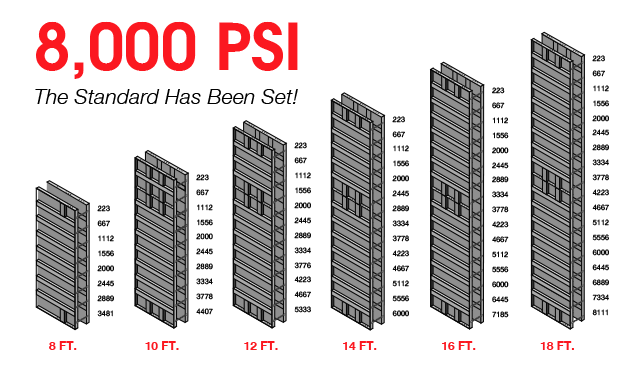
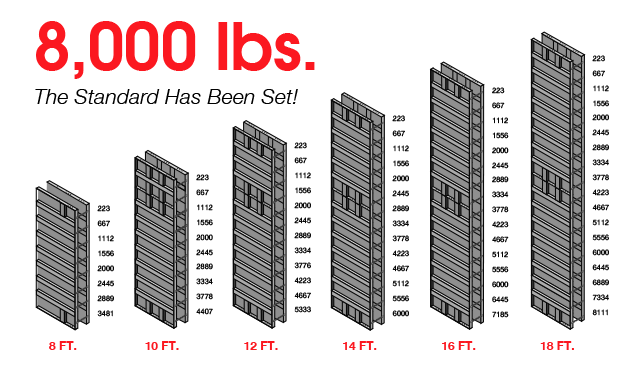
"PSI" to "lbs"

diff --git a/application/views/home.php b/application/views/home.php
@@ -3,7 +3,7 @@
         <div role="presentation" id="hero">
             <div class="column four">
                 <div>
-                    <h2>8000 PSI</h2>
+                    <h2>8000 lbs.</h2>
                     <h3>We Are Setting The Standard In Concrete Form Ties</h3>
                     <h4 style="color: #ffff66">To be assured you are getting a quality Tie - Look for the MADE IN USA stamp</h4>
                 </div>
